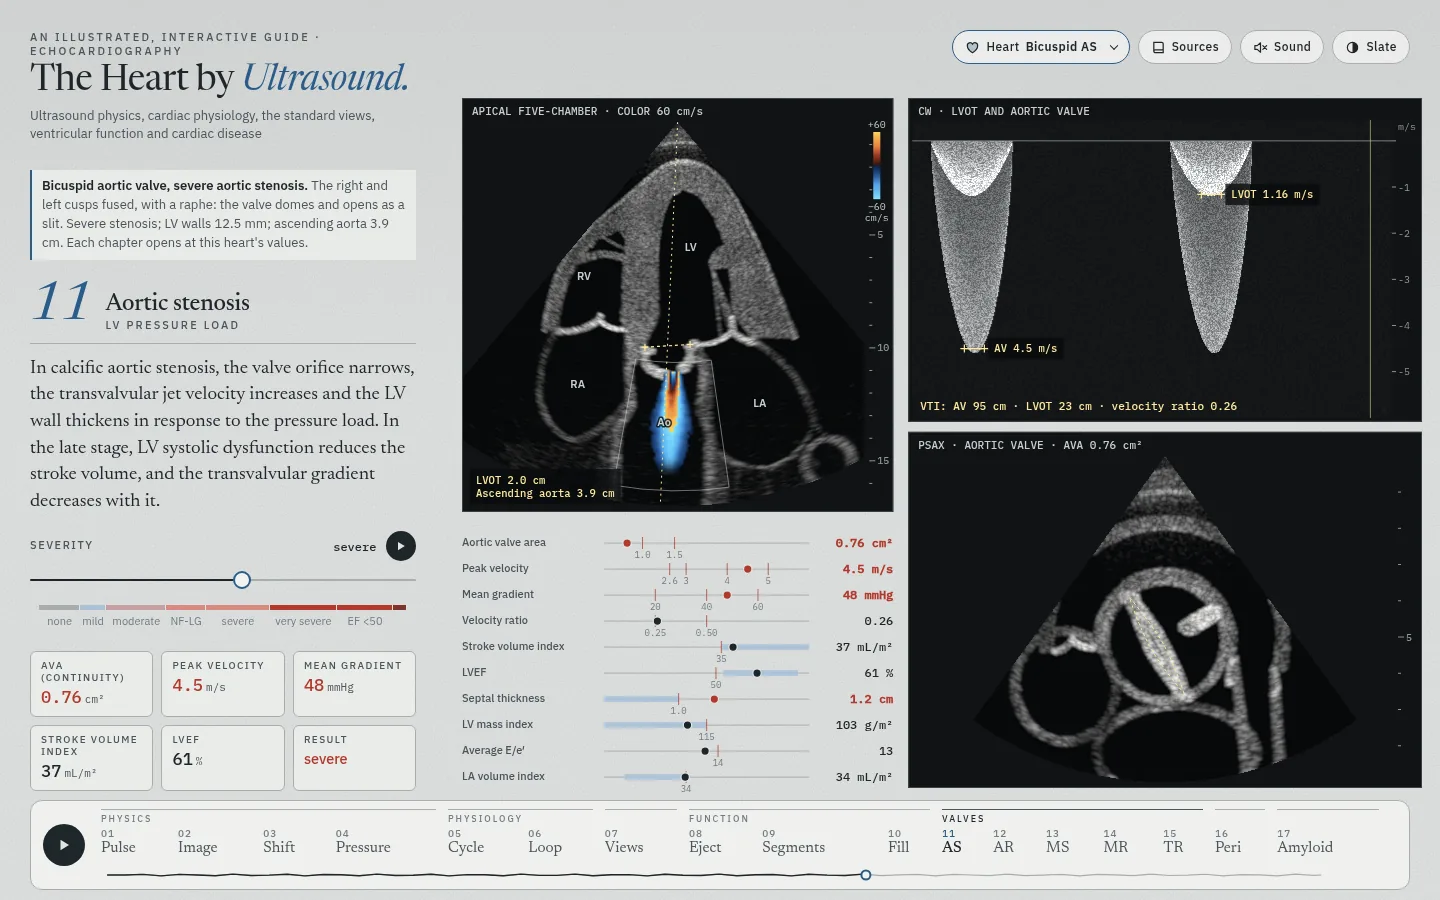
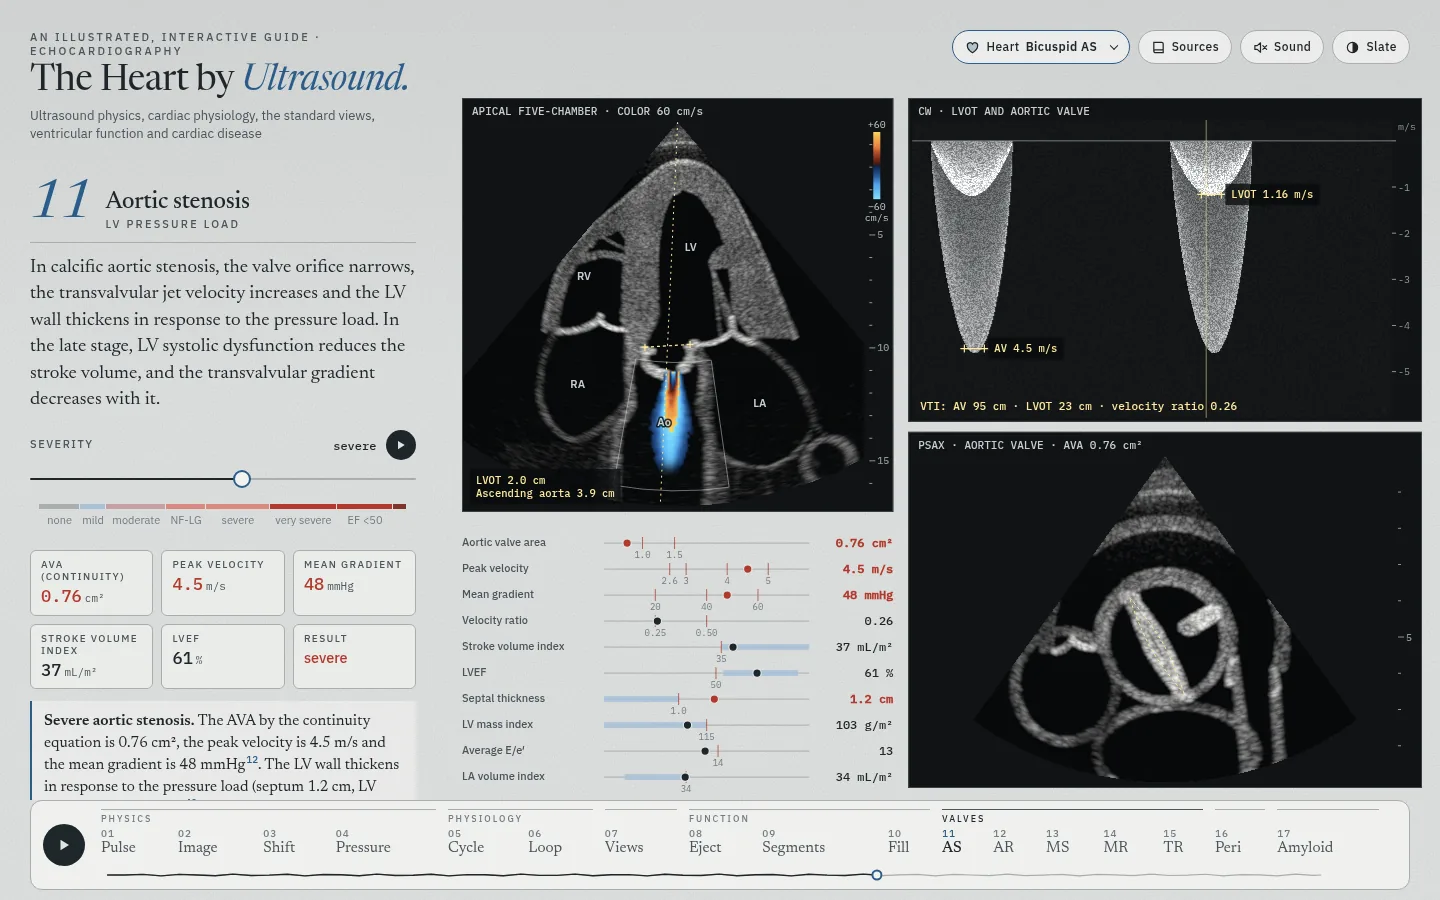
AS: README lines for the new page; screenshots on main without the heart note
Claude-Session: https://claude.ai/code/session_01NtQNVy8YQ5NUAw3xwF3MnN

Changed region(s): [[0.0, 0.1867, 0.3125, 0.9022], [0.5938, 0.9644, 0.625, 0.9956]]

diff --git a/README.md b/README.md
@@ -106,7 +106,7 @@ Chapter 07 covers the ASE comprehensive transthoracic views (Mitchell 2019, Tabl
 
 - **One slider per disease.** It runs from normal to the end stage. The bands under it show where the grade changes; the page computes them from its own model, so a band starts where the values cross the guideline cut-off.
 - **Play** runs the page's own sequence, the sequence of the tour. The slider moves from normal through the course, holds, and starts again. In mitral stenosis, the heart rate then rises. The page moves when it opens, in the tour or in its own sequence. Any input in the page stops it (see *Run it*). The beat runs all the time; there is no cine switch.
-- **Several views change together.** A 2D view drawn to scale (a caliper on the screen reads the value in the text), three or four Doppler strips with a cursor at the same moment of the beat, a strip of measurements against their cut-offs, and the guideline table with the current column marked.
+- **Several views change together.** A 2D view drawn to scale (a caliper on the screen reads the value in the text), Doppler strips with a cursor at the same moment of the beat, and a strip of measurements against their cut-offs. Most pages also have the guideline table with the current column marked. In 10 Fill and 11 AS a diagram in the text takes the place of the table: the guideline algorithm or the calculations, with ▲▼ buttons on the measurements. An edit moves the slider to a band of the new result; a move of the slider, Play, the tour or Reset returns the values to the model. 11 AS shows the apical five-chamber view, one CW trace with the LVOT envelope inside the aortic jet, and the short-axis valve to scale.
 - **Grades and stages.** Regurgitation follows ASE 2017 (Zoghbi), with EACVI 2022 for massive and torrential TR; aortic stenosis follows Baumgartner 2017; mitral stenosis follows ASE 2023 (Pandian); diastolic function follows ASE 2025 (Nagueh). The LV and atrial consequences follow the ACC/AHA 2020 stages (Otto), for example stage C2 in MR at LVEF ≤60% or end-systolic diameter ≥40 mm. Effusion size follows ESC 2015 and 2025 (<10, 10–20, >20 mm at end-diastole); the echo signs of tamponade follow ASE 2013 (Klein) and ESC 2025 (Schulz-Menger). The amyloid bands follow the ESC 2021 echo criteria (Garcia-Pavia): an unexplained wall of 12 mm or more, plus two of three findings (grade 2 or worse diastolic dysfunction; septal s′, e′ and a′ all below 5 cm/s; GLS below 15% in absolute value) or a multiparametric score of 8 or more (Boldrini 2020).
 - **What the model is.** The orifice or valve area drives the numbers (PISA, continuity equation, pressure half-time = 220 ÷ area); the chamber sizes, vein flows and pressures follow illustrative tracks set inside the guideline bands. In the pericardium page the effusion drives the pressure in the sac; tamponade starts where that pressure reaches the RA pressure, and the right heart then folds in during its relaxation. In the amyloid page the burden blends the heart mesh from its normal to its amyloid corner: the walls, cavity, atria, valves, atrial septum, RV wall and pericardial space come from the mesh (the calipers measure IVSd 9.0 to 16.8 mm, LVIDd 46.8 to 39.8 mm and PWd 8.9 to 15.0 mm), and the Doppler, strain and filling values follow a track from normal to grade 3 filling set inside the cited ranges. They are teaching values, not patient data.
 
@@ -157,7 +157,7 @@ src/sev.js          severity pages: keyframe tracks, grade bands, Play, measurem
 src/bmode.js        B-mode and M-mode image formation for every echo view
 src/abdomen.js      liver, IVC, hepatic veins, abdominal aorta and spine for the subcostal echo views
 src/gl/liver3d.js   the liver in the 3D views of the subcostal window, a pencil layer that fades
-src/echo2d.js       parametric echo views drawn to scale (A4C, A2C, PLAX, three short-axis levels, IVC M-mode), the biplane tracing, the color jets and the flow in each color view
+src/echo2d.js       parametric echo views drawn to scale (A4C, A5C, A2C, PLAX, three short-axis levels, IVC M-mode), the biplane tracing, the color jets and the flow in each color view
 src/jets.js         the color Doppler format: jets from their model (plume), or the scanner format below
 src/cflow.js        the scanner format (kept, off): flow elements, pulse-pair estimate, wall filter, tissue priority
 src/views.js        view catalog: planes, lab classes, structures, probe moves
